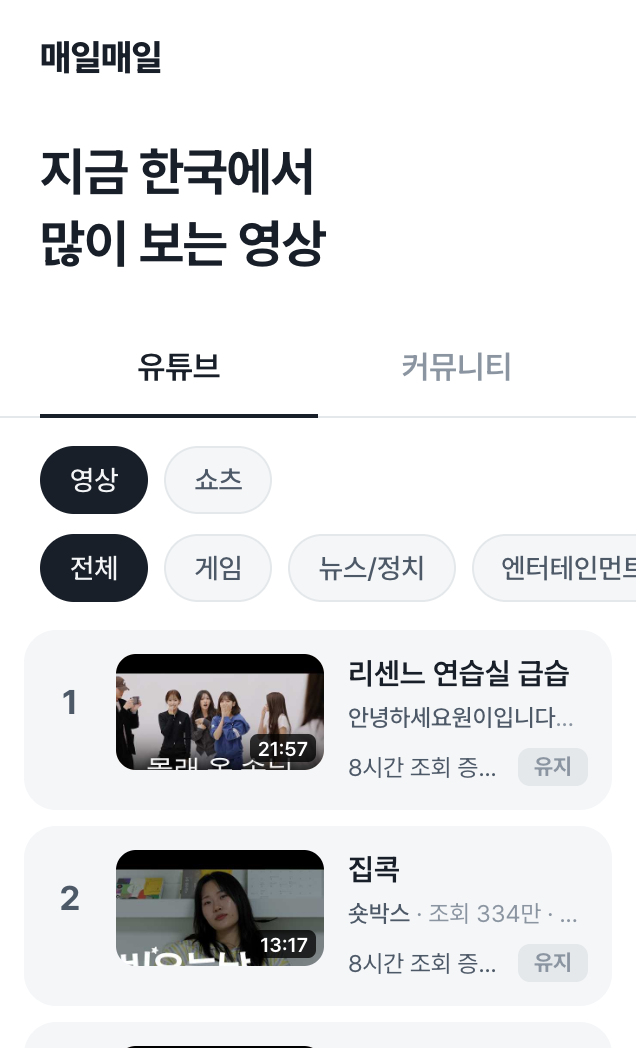
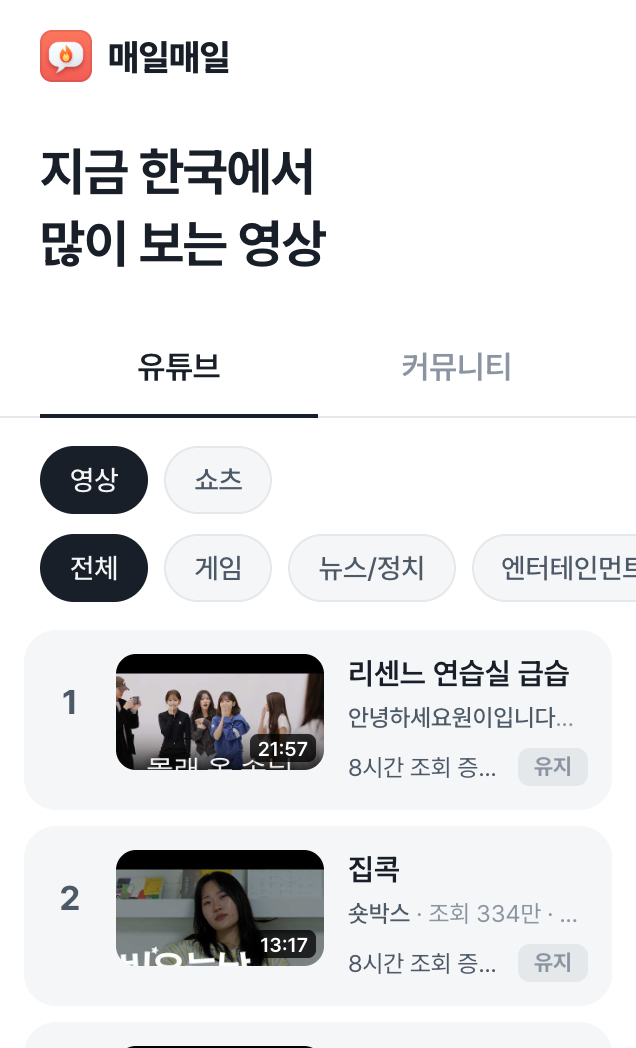
feat: 화면 위 "매일매일" 앞에 앱 로고 표시
- 앱 아이콘과 같은 그림을 26px로, 모서리는 아이콘 비율, 테두리 대신 옅은 외곽선
- 콘솔용 스크린샷 다시 촬영

Changed region(s): [[0.0597, 0.0305, 0.3585, 0.0916]]

diff --git a/src/App.tsx b/src/App.tsx
@@ -251,7 +251,10 @@ export function App() {
     // 연령별 글자 키우기는 연령을 고르는 커뮤니티 탭에서만 — 유튜브 탭엔 연령 탭이 없어서 큰 글자를 되돌릴 방법이 없었어요
     <div className="app" style={{ zoom: tab === 'community' ? AGE_SCALE[age] : 1 }}>
       <header className="top">
-        <span className="brand">매일매일</span>
+        <span className="brand">
+          <img className="brand-logo" src={`${import.meta.env.BASE_URL}favicon.png`} alt="" aria-hidden="true" />
+          매일매일
+        </span>
         {!IN_TOSS && (
           <button
             type="button"

diff --git a/src/styles.css b/src/styles.css
@@ -84,9 +84,25 @@ button {
 }
 
 .brand {
+  display: flex;
+  align-items: center;
+  gap: 8px;
   font-size: 18px;
   font-weight: 800;
   letter-spacing: -0.3px;
+}
+
+/* 앱 아이콘과 같은 그림. 모서리는 앱 아이콘 비율(약 22%)로, 테두리 대신 10% 외곽선 */
+.brand-logo {
+  width: 26px;
+  height: 26px;
+  border-radius: 6px;
+  outline: 1px solid rgba(0, 0, 0, 0.08);
+  outline-offset: -1px;
+}
+
+:root[data-theme='dark'] .brand-logo {
+  outline-color: rgba(255, 255, 255, 0.1);
 }
 
 .theme-btn {
